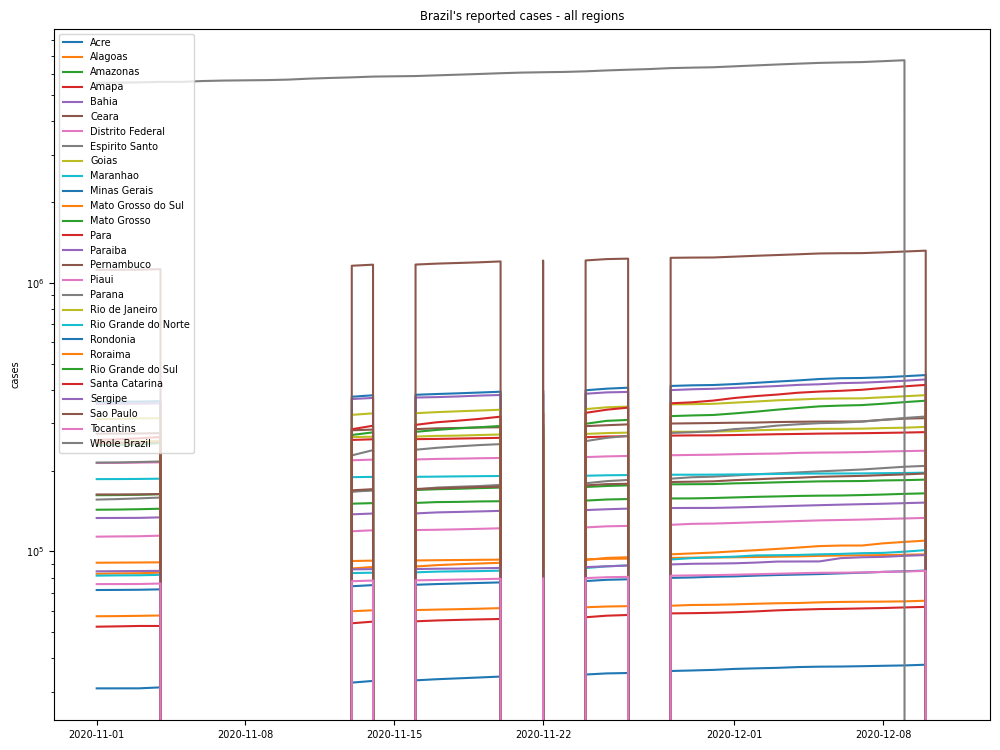
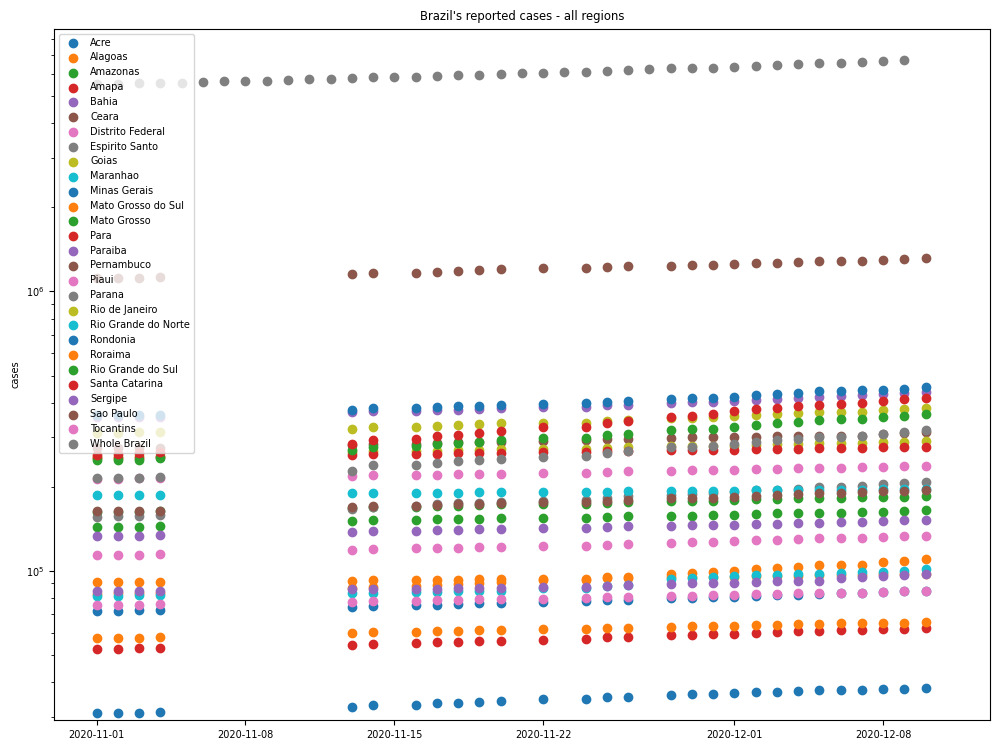
Brazil cases are corrupt

diff --git a/data/study_data/look_at_brazil.py b/data/study_data/look_at_brazil.py
@@ -60,7 +60,7 @@ for region in brazil_data.RegionName.unique():
     region_data = brazil_data[brazil_data['RegionName']==region]
     if region==0:
         region = 'Whole Brazil'
-    plt.plot(region_data['Date'],region_data['ConfirmedCases'],label=region)
+    plt.scatter(region_data['Date'],region_data['ConfirmedCases'],label=region)
 plt.legend()
 plt.yscale('log')
 plt.ylabel('cases')
@@ -80,7 +80,7 @@ for region in brazil_data.RegionCode.unique():
         population=country_populations[country_populations['Country Code']==region_data['CountryCode'].values[0]]['2018'].values[0]
     if region==0:
         region = 'Whole Brazil'
-    plt.plot(region_data['Date'],region_data['ConfirmedCases']/(population/100000),label=region)
+    plt.scatter(region_data['Date'],region_data['ConfirmedCases']/(population/100000),label=region)
 
 plt.legend()
 plt.ylabel('Cases per 100000 population')
